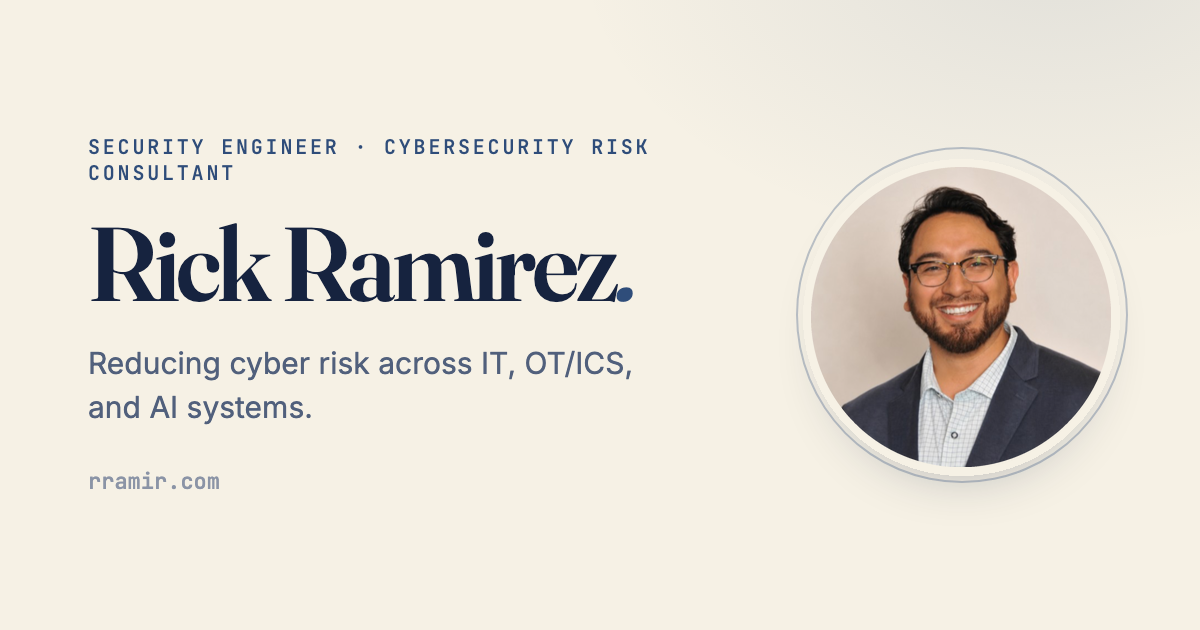
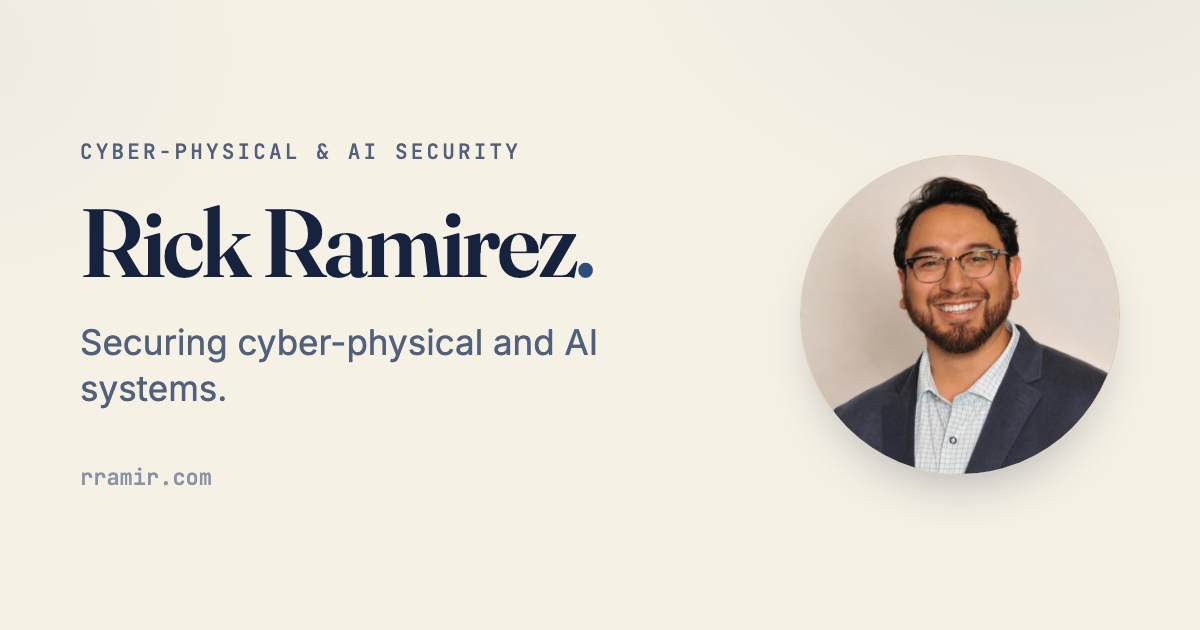
Sharpen positioning to cyber-physical + AI security
Reframe the hero, title/meta, and structured data around one identity —
the intersection of cyber-physical/OT and AI security. Soften consulting
to advisory framing, promote the Securing AI series, past-tense the SECON
credential, refresh Ohm AI status, trim languages, and regenerate the OG
share image to match.

diff --git a/src/data/site.js b/src/data/site.js
@@ -2,9 +2,9 @@
 
 export const profile = {
   name: 'Rick Ramirez',
-  role: 'Security Engineer & Cybersecurity Risk Consultant',
+  role: 'Where cyber-physical security meets AI',
   tagline:
-    'I assess and reduce cyber risk where it matters most — across IT, OT/ICS, and AI systems.',
+    "For a decade I've secured systems where failure is physical — surgical robots, industrial control, the RF spectrum — and now I secure the AI being wired into them.",
   intro:
     "A U.S. Marine Corps veteran turned cybersecurity leader. Today I'm Lead Product Security Engineer for the Ottava surgical robotics platform at Johnson & Johnson — after rising through enterprise, OT/ICS, and global supply-chain security roles. I build practical, standards-aligned methods for measuring and reducing cyber risk, and increasingly the AI tooling that makes that work scale.",
   email: 'ricardo.n.ramirez@outlook.com',
@@ -16,11 +16,11 @@ export const profile = {
 };
 
 export const credentials = [
-  { label: 'Speaker · SECON 2026', sub: 'New Jersey', icon: 'mic' },
+  { label: 'Spoke at NJ SECON 2026', sub: 'Jun 2026', icon: 'mic' },
   { label: 'U.S. Marine Corps', sub: 'Veteran', icon: 'award' },
 ];
 
-export const languages = ['English', 'Spanish', 'German', 'French'];
+export const languages = ['English', 'Spanish'];
 
 // Topics for entity/knowsAbout signals (classic SEO + AI answer engines).
 export const expertise = [
@@ -44,7 +44,7 @@ export const expertise = [
 export const faqs = [
   {
     q: 'Who is Rick Ramirez?',
-    a: 'Rick Ramirez is a cybersecurity and AI security professional based in the New York City metropolitan area. He is a Lead Product Security Engineer at Johnson & Johnson and an independent cybersecurity risk consultant, focused on securing AI systems and OT/ICS environments.',
+    a: 'Rick Ramirez is a cybersecurity professional based in the New York City metropolitan area, working at the intersection of cyber-physical and AI security. He is a Lead Product Security Engineer at Johnson & Johnson and advises on securing OT/ICS, medical-device, and AI systems.',
   },
   {
     q: 'Where is Rick Ramirez based?',
@@ -55,8 +55,8 @@ export const faqs = [
     a: 'He holds CompTIA SecAI+, authored a vendor-neutral secure enterprise AI reference architecture, builds governed multi-agent AI systems with human-in-the-loop controls, and publishes a SecAI+ study video series. His focus is security architecture for AI — mapped to the OWASP LLM Top 10, NIST AI RMF, and MITRE ATLAS.',
   },
   {
-    q: 'Is Rick Ramirez available for cybersecurity or AI security consulting?',
-    a: 'Yes. He offers independent cybersecurity risk and AI security consulting — site cyber risk assessment, OT/ICS program review, and security-first AI. Email is the fastest way to reach him.',
+    q: 'Is Rick Ramirez available for advisory or consulting engagements?',
+    a: 'Yes — for select advisory and consulting engagements in cyber-physical and AI security, such as cyber risk assessment and OT/ICS program review. Email is the fastest way to reach him.',
   },
 ];
 
@@ -199,8 +199,10 @@ export const speaking = [
     tags: ['RF / SDR', 'AMR / AMI', 'Cyber-Physical Systems', 'Responsible Disclosure'],
     slides: '/cleartext-at-the-edge-secon-2026.pdf',
     whitepaper: '/passive-rf-intelligence-915mhz-whitepaper.pdf',
+    // Recording placeholder — set `link` to the talk video URL when available and
+    // a "Watch the talk ↗" button appears automatically.
     link: null,
-    linkLabel: null,
+    linkLabel: 'Watch the talk',
   },
 ];
 
@@ -227,12 +229,12 @@ export const securingAI = {
 export const projects = [
   {
     name: 'Ohm AI',
-    tag: 'Flagship · Consulting Tool',
+    tag: 'Flagship · Platform',
     blurb:
       'A local-first, multi-agent OT/ICS cybersecurity assessment platform. Ingests site evidence — network diagrams, asset inventories, firewall/ACL configs, vuln scans, and policies — then evaluates against IEC 62443 and NIST CSF 2.0 to produce scores, a report, and a prioritized remediation roadmap. Strictly local: no client data leaves the machine.',
     stack: ['Python', 'Local LLMs', 'Multi-Agent', 'IEC 62443', 'NIST CSF 2.0'],
     link: null,
-    linkLabel: 'In development',
+    linkLabel: 'Early access',
   },
   {
     name: 'Secure Enterprise AI Reference Architecture',
